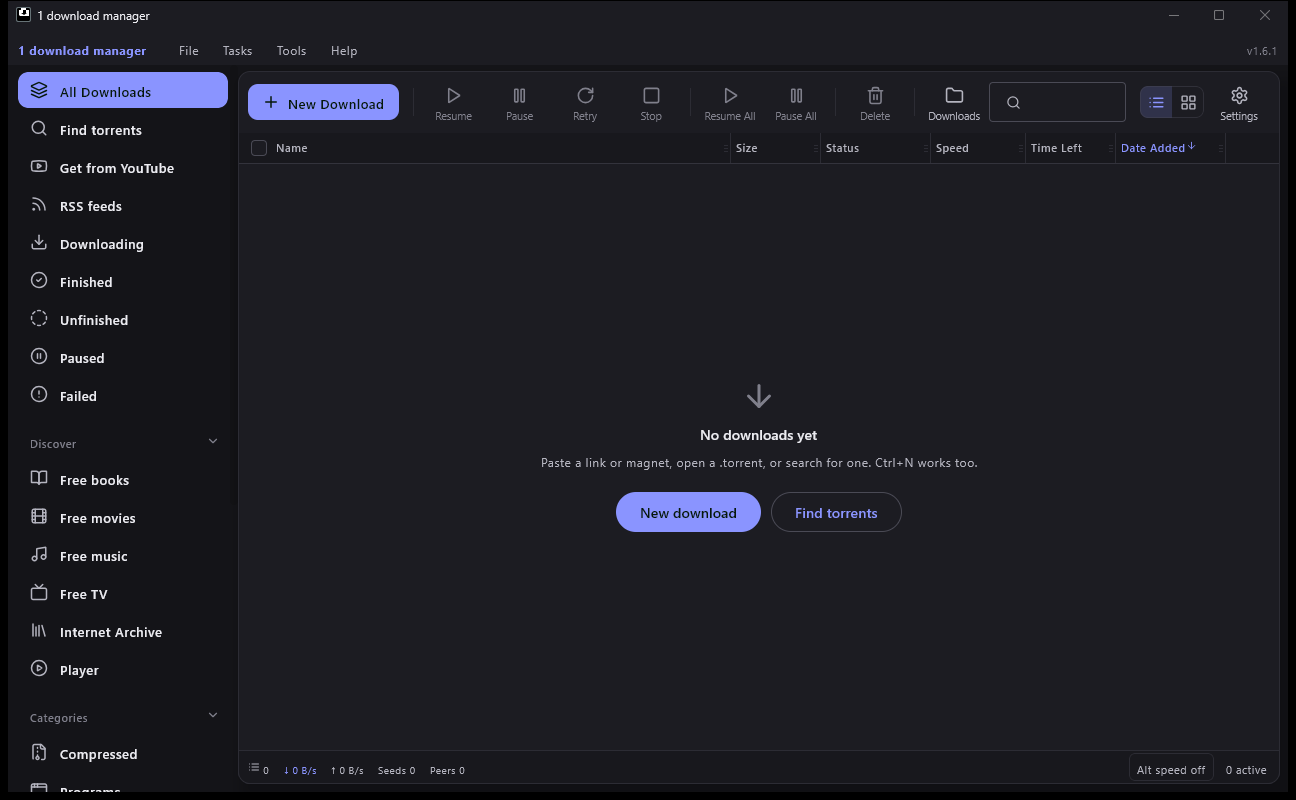
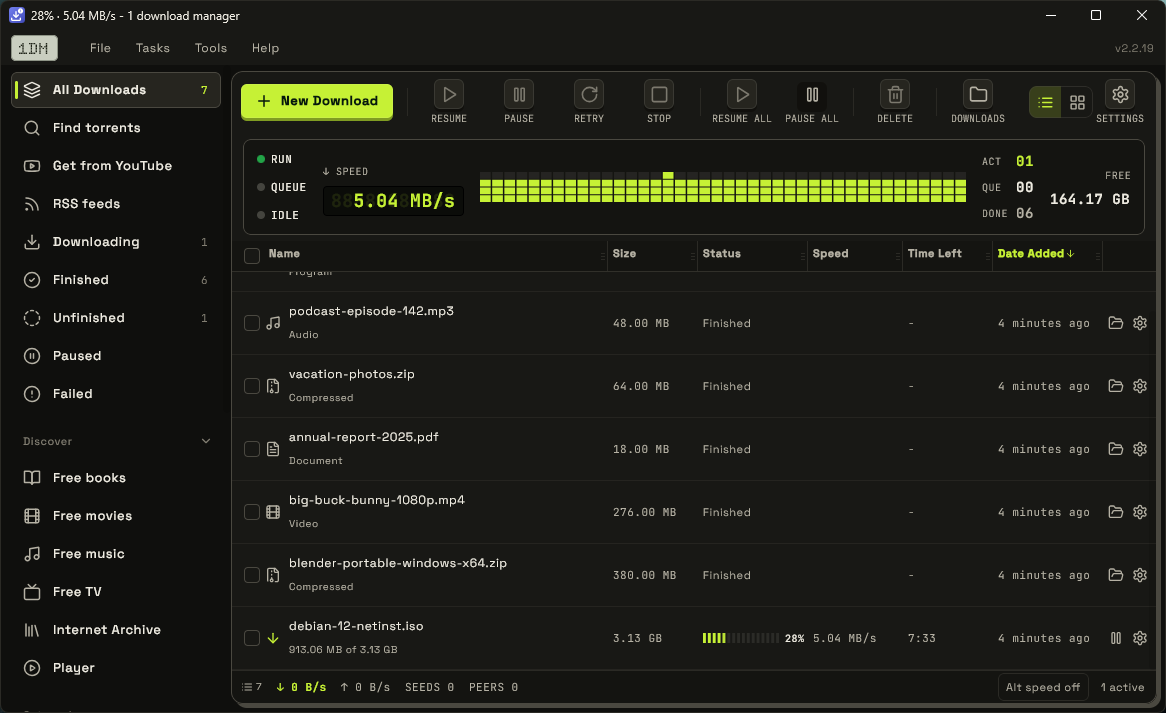
README: new Windows screenshots, speed pitch

diff --git a/README.md b/README.md
@@ -9,6 +9,10 @@ YouTube, torrents and streams in a single queue — with browser extensions for 
 <img src="docs/screenshots/desktop.png" alt="Windows app" width="820">
 
 <p>
+  <img src="docs/screenshots/desktop-download-window.png" width="400" alt="Per-download window with live speed graph and connection map">
+</p>
+
+<p>
   <img src="docs/screenshots/android-downloads.png" width="200" alt="Download queue">
   <img src="docs/screenshots/android-discover.png" width="200" alt="Discover">
   <img src="docs/screenshots/android-archive.png" width="200" alt="Internet Archive browser">
@@ -19,7 +23,8 @@ YouTube, torrents and streams in a single queue — with browser extensions for 
 
 | | |
 |---|---|
-| **Fast** | Splits each file over up to 16 connections (8 by default) so a single link uses your whole line. |
+| **Built for speed** | Every file is split over up to 16 parallel connections (8 by default) with a large read buffer, so one link can fill your whole line. A live graph and connection map show it working. |
+| **All-in-one** | Links, YouTube, torrents, HLS/DASH streams, archive.org and free media — one queue, one app, Android and Windows. |
 | **Never starts over** | Pause, crash, sleep or lose Wi-Fi — downloads resume where they stopped, and retry on their own. |
 | **Watch while it downloads** | Torrents can play in order, so you start the video before it finishes. |
 | **Catches everything** | Chrome and Firefox extensions grab downloads and streams from the page. |
